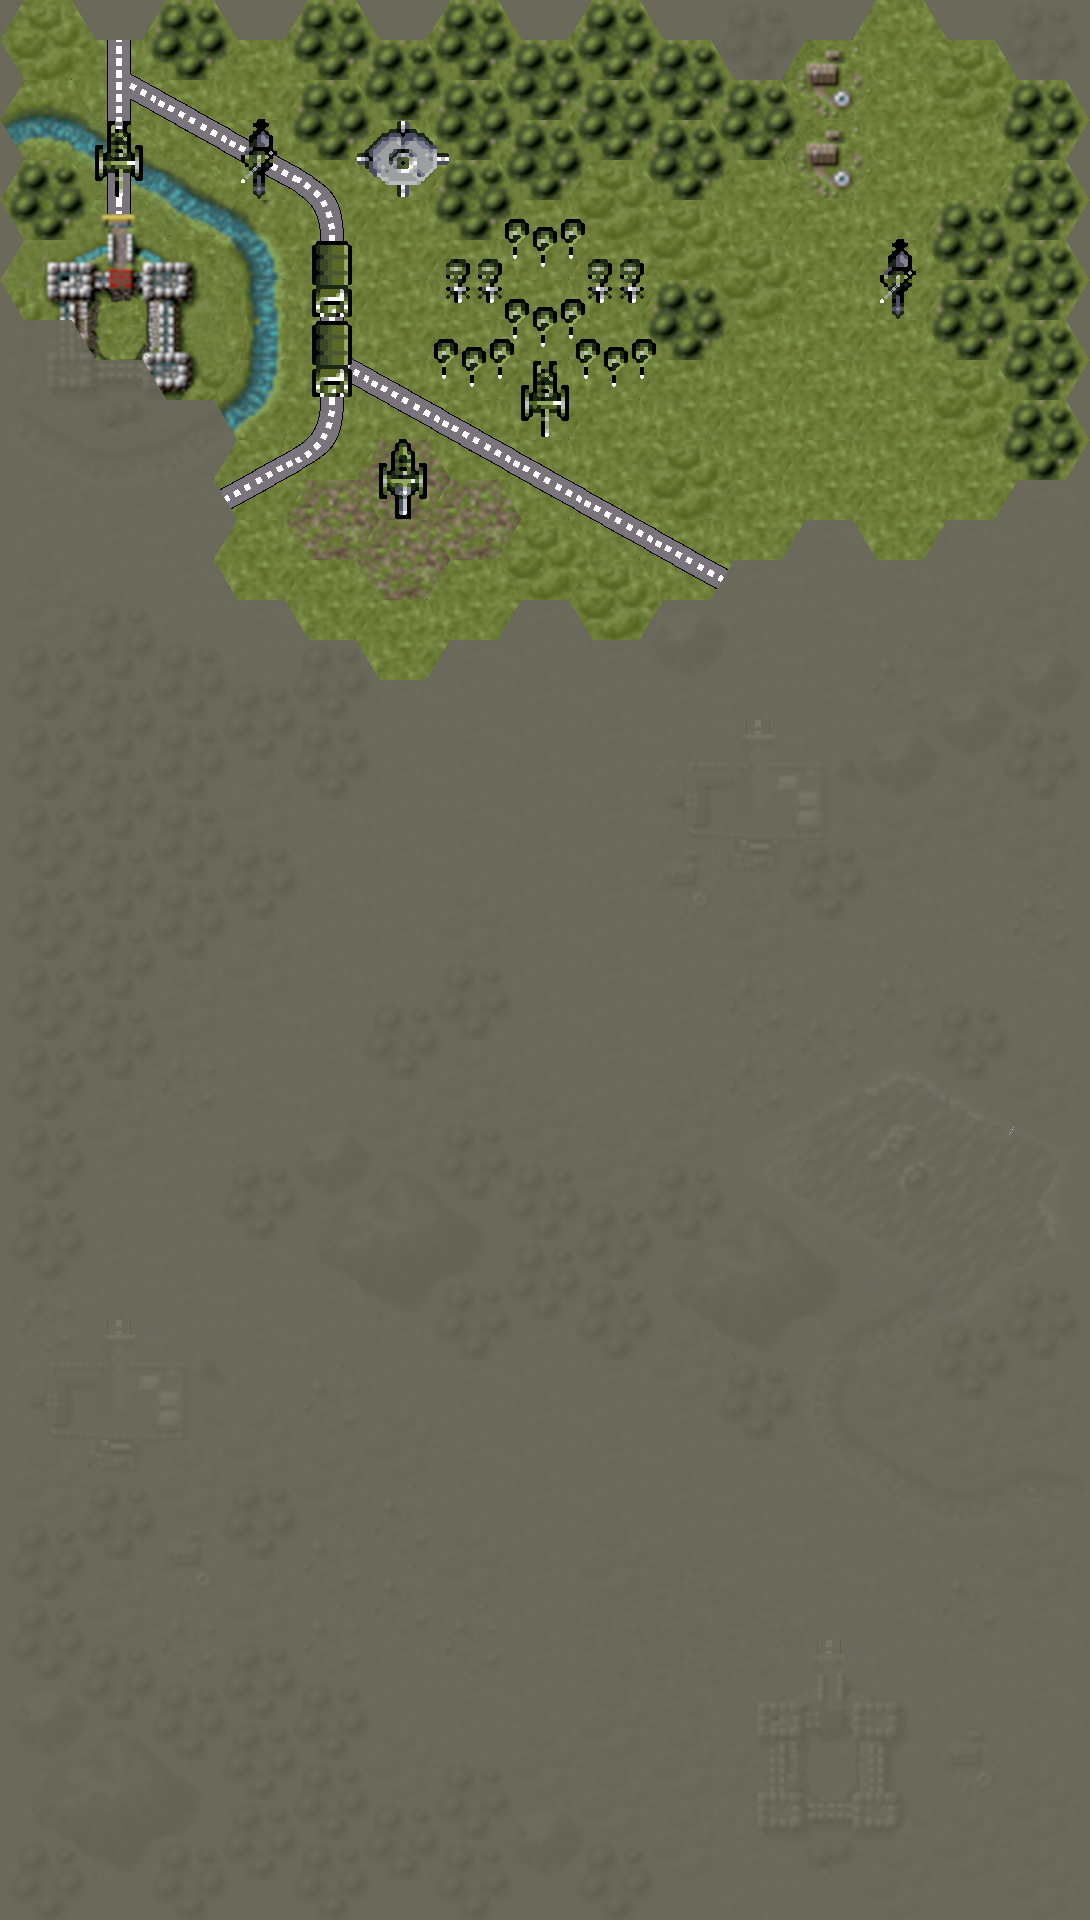
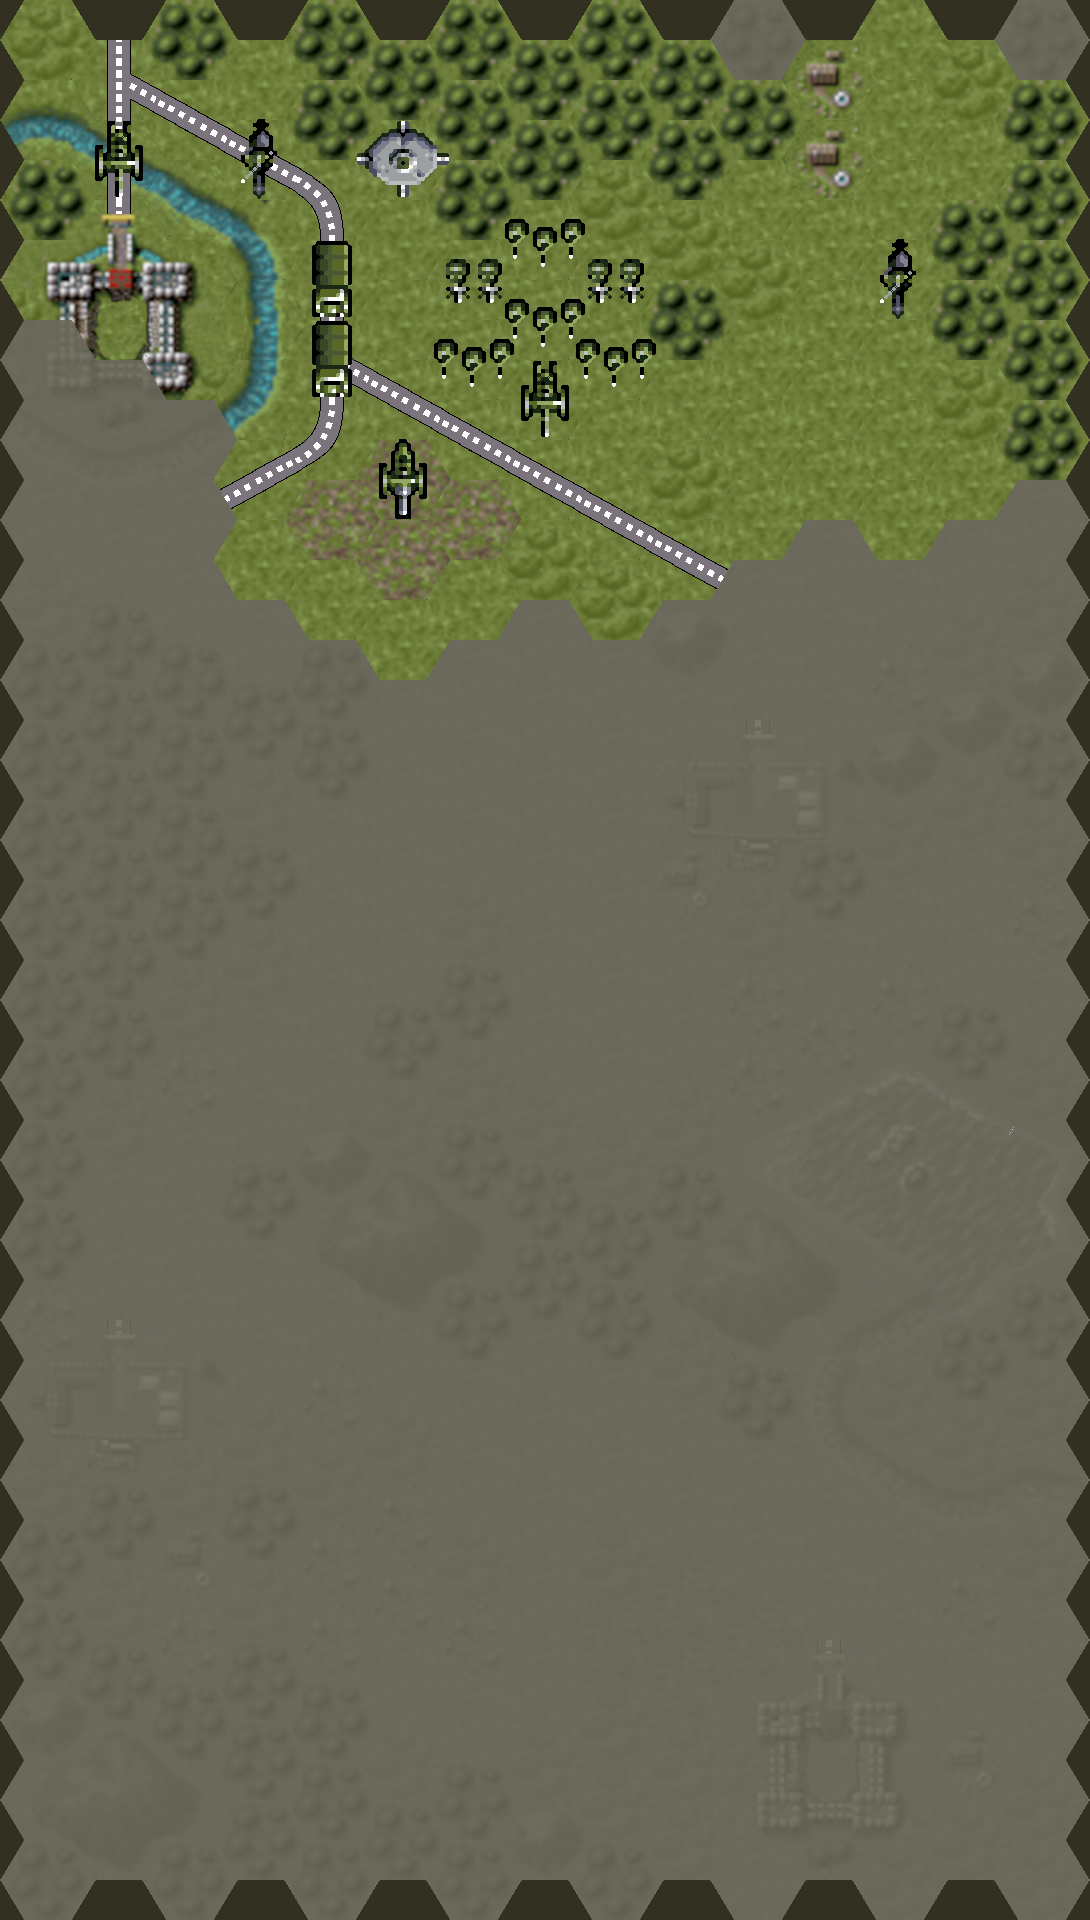
Completed commonMap

diff --git a/gui.py b/gui.py
@@ -265,11 +265,11 @@ class GUI():
 		self.parent.display.blit(self.backgroundTexture, (0,0))
 		pygame.draw.rect(self.parent.display, colors.almostBlack, (0, 0, 1800, 1000), 4)							# window border
 		self.drawMap()
-	#	self.drawMiniMap()
+		self.drawMiniMap()
 		self.drawTerrainGUI()
 		self.drawUnitGUI()
 		self.actionMenu.draw()
-			
+
 
 
 	def generateMap(self):
@@ -277,7 +277,7 @@ class GUI():
 		width = (self.mapWidth * 142) - 46  # dunno why 46 must be subtracted?
 		height = (self.mapHeight + 1) * 40
 		self.map = pygame.Surface((width, height))
-		self.map.fill(colors.historylineLight)
+		self.map.fill(colors.historylineDark)
 		for x in range(self.mapHeight):
 			for y in range(len(self.mainMap[x])):
 				square = self.mainMap[x][y]
@@ -295,19 +295,20 @@ class GUI():
 					textRect.topleft = (20, 20)
 					image.blit(text, textRect)
 					self.map.blit(image, [y * 142 + forskydning, x * 40])
-		pygame.image.save(self.map, 'generatedMap.png')
+		# generate minimap
+		width = (self.mapWidth * 142) - 46			# dunno why 46 must be subtracted?
+		height = (self.mapHeight + 1) * 40
+		tempMiniMap = self.map.copy()
+		# scale minimap to max height of minimap area (392)
+		scaleFactor = 392 / height
+		self.miniMap = pygame.transform.scale(tempMiniMap, (width * scaleFactor, height * scaleFactor))
+#		pygame.image.save(self.map, 'generatedMap.png')
 
 
 
 	def drawMap(self):
 		pygame.draw.rect(self.parent.display, colors.almostBlack, (15, 15, 1098, 968), 4)								# map border (main map = 1098 / 968)
-
-
-		self.parent.display.blit(self.map, [19, 19], (self.mapView[0], self.mapView[1] * 40, 1098 + self.mapView[0], 960 + self.mapView[1] * 40))		# blit visible area of map
-
-
-		print(self.mapView)
-
+		self.parent.display.blit(self.map, [19, 19], (self.mapView[0], self.mapView[1] * 40, 1098 + self.mapView[0], 960))		# blit visible area of map
 		forskydning = 71 if (self.cursorPos[1] % 2) != 0 else 0
 		self.parent.display.blit(self.cursorGfx, [self.cursorPos[0] * 142 + forskydning + 7, self.cursorPos[1] * 40 + 9])
 		return 1
@@ -315,42 +316,20 @@ class GUI():
 
 
 	def drawMiniMap(self):
-		pygame.draw.rect(self.parent.display, colors.historylineDark , (1124, 15,  662, 400), 0)	# minimap background
-		pygame.draw.rect(self.parent.display, colors.almostBlack, (1124, 15,  662, 400), 4)			# minimap border
-		# generate minimap
-		width = (self.mapWidth * 142) - 46 
-		height = (self.mapHeight + 1) * 40
-		miniMap = pygame.Surface((width, height)) # dunno why 46 must be subtracted?
-		miniMap.fill(colors.historylineLight)
-		for x in range(self.mapHeight):
-			for y in range(len(self.mainMap[x])):
-				square = self.mainMap[x][y]
-				forskydning = 71 if (x % 2) != 0 else 0
-				if square.visible:
-					miniMap.blit(square.background, [y * 142 + forskydning, x * 40])
-					if square.infra:	miniMap.blit(square.infra, [y * 142 + forskydning, x * 40])
-					if square.unit:		miniMap.blit(square.unit.mapIcon, [y * 142 + forskydning, x * 40])
-				else:
-					miniMap.blit(square.bgHidden, [y * 142 + forskydning + 19, x * 40 + 19])
+		pygame.draw.rect(self.parent.display, colors.darkGrey , (1124, 15,  662, 400), 0)			# minimap area background
+		pygame.draw.rect(self.parent.display, colors.almostBlack, (1124, 15,  662, 400), 4)					# minimap area border
+		miniMapXCoord =	1459 - int(self.miniMap.get_width() / 2)
+		w, h = self.miniMap.get_size()
+		self.parent.display.blit(self.miniMap, [miniMapXCoord, 19])
+		pygame.draw.rect(self.parent.display, colors.almostBlack, (miniMapXCoord - 4, 15,  w + 8, h + 8), 4)					# minimap border
 		# calculate percentage of area displayed
 		widthPercentageDisplayed = 8 / self.mapWidth
 		heightPercentageDisplayed = 12 / int((self.mapHeight + 1) / 2)
-		# calculate marker offset
-		markerOffsetX = self.mapView[0] / self.mapWidth
-		markerOffsetY = self.mapView[1] / self.mapHeight
-		# scale minimap to max height of minimap area (392)
-		scaleFactor = 392 / height
-		scaledMiniMap = pygame.transform.scale(miniMap, (width * scaleFactor, height * scaleFactor))
-		miniMapXCoord =	1459 - int(scaledMiniMap.get_width() / 2)
-		self.parent.display.blit(scaledMiniMap, [miniMapXCoord, 19])
-		w, h = scaledMiniMap.get_size()
 		# draw a rectangle to show the field of view on the miniMap
-		pygame.draw.rect(self.parent.display, colors.red, 
-			(	miniMapXCoord -2 + int(w * markerOffsetX), 
-				17 + int(h * markerOffsetY), 
-				(w + 4) * widthPercentageDisplayed, 
-				(h) * heightPercentageDisplayed), 
-				2)
+		markerOffsetX = self.mapView[0] / self.mapWidth				# calculate marker offset
+		markerOffsetY = self.mapView[1] / self.mapHeight
+		pygame.draw.rect(self.parent.display, colors.red, (	miniMapXCoord -2 + int(w * markerOffsetX), 17 + int(h * markerOffsetY), (w + 4) * widthPercentageDisplayed, (h) * heightPercentageDisplayed), 2)
+
 
 
 	def drawTerrainGUI(self):
